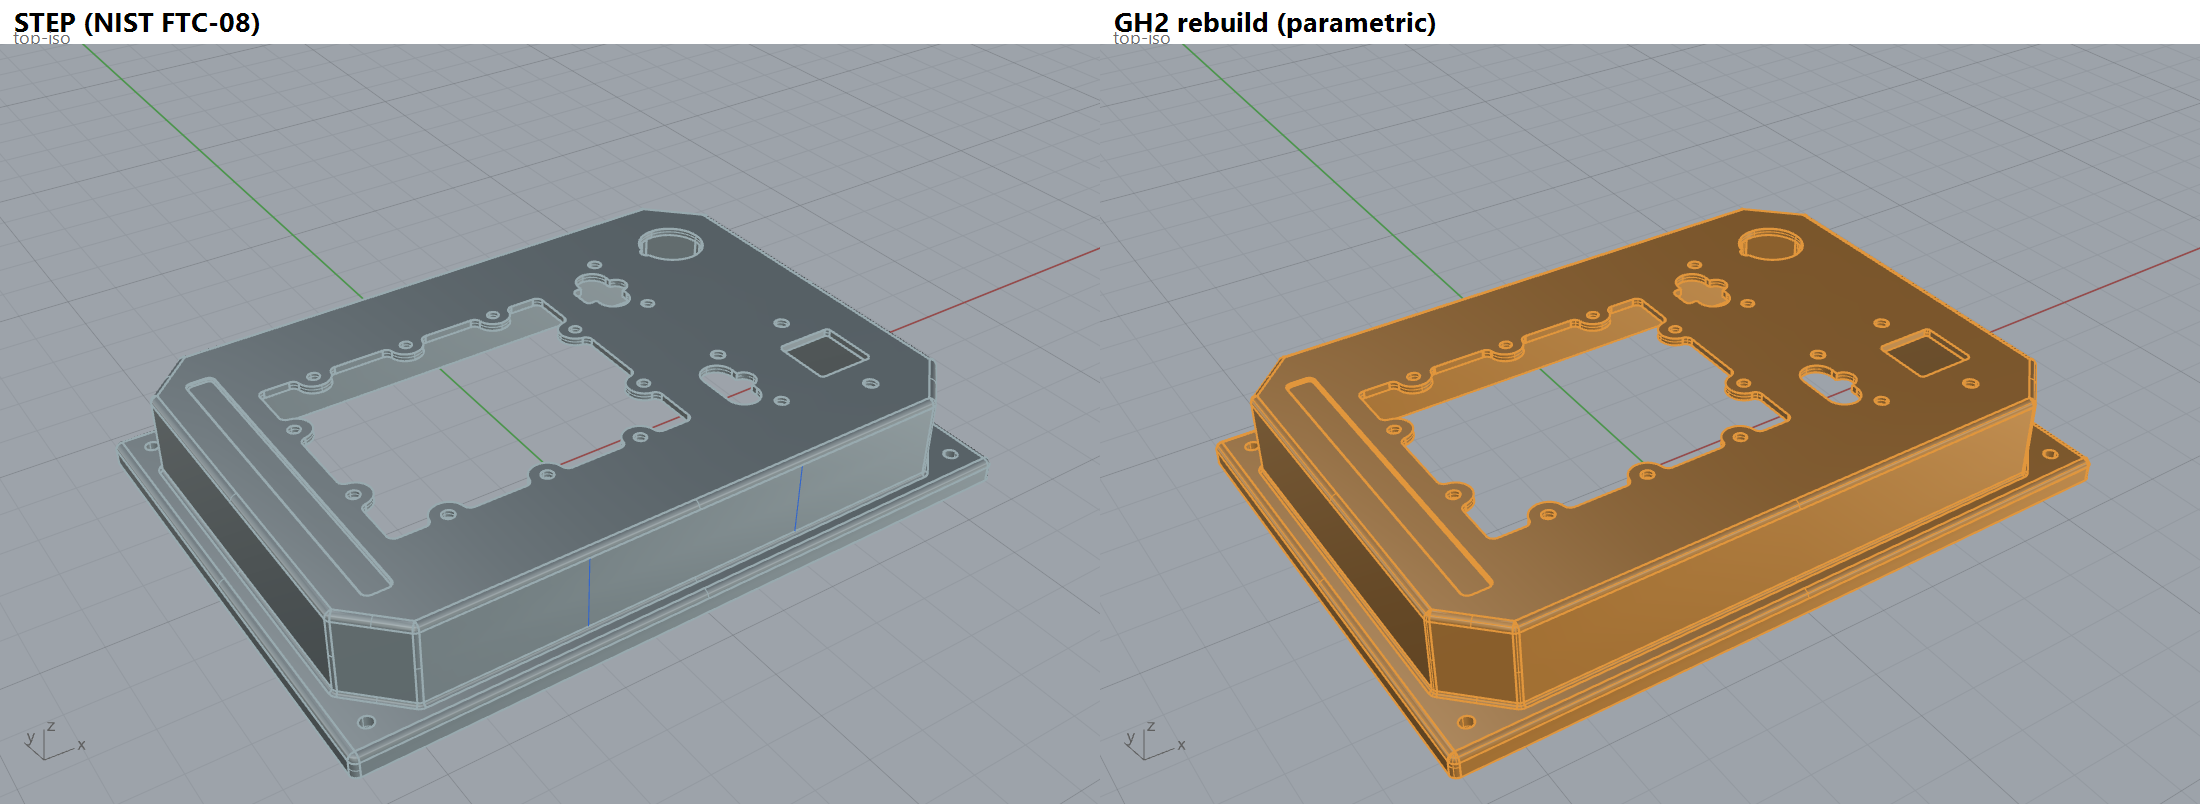
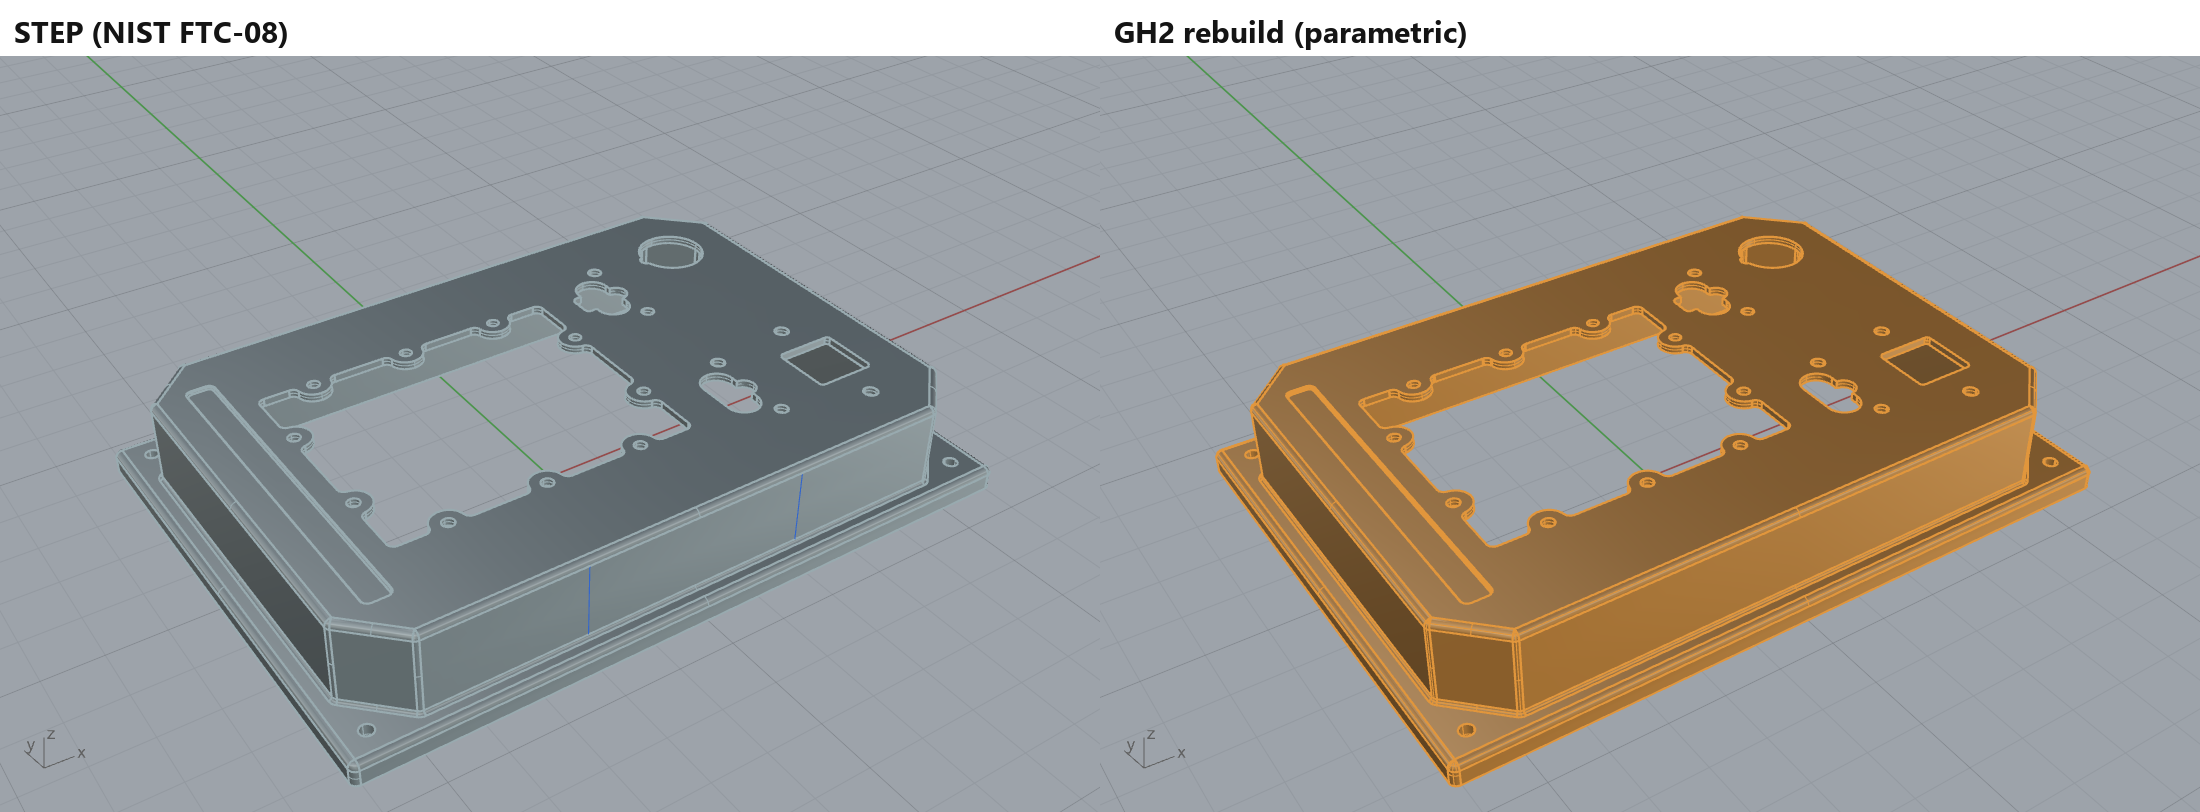
Fix overlapping viewport labels in the STEP vs GH2 still

diff --git a/docs/media/make_stills.py b/docs/media/make_stills.py
@@ -25,7 +25,14 @@ def main(src):
     grid = Image.open(os.path.join(src, "STEP vs GH2 rebuild.png")).convert("RGB")   # 2200x1608, 2x2
     w, h = grid.size
     top = grid.crop((0, 0, w, h // 2))
-    top.save(os.path.join(HERE, "step-vs-gh2.png"), optimize=True)
+    # the source titles overlap Rhino's small "top-iso" viewport labels: cut below both and redraw the titles
+    cut, band = 48, 56
+    still = Image.new("RGB", (w, h // 2 - cut + band), (255, 255, 255))
+    still.paste(top.crop((0, cut, w, h // 2)), (0, band))
+    d = ImageDraw.Draw(still)
+    for x, text in ((14, "STEP (NIST FTC-08)"), (w // 2 + 14, "GH2 rebuild (parametric)")):
+        d.text((x, 10), text, font=font(30, True), fill=(20, 20, 20))
+    still.save(os.path.join(HERE, "step-vs-gh2.png"), optimize=True)
 
     canvas = Image.open(os.path.join(src, "canvas_overview.png")).convert("RGB")      # 1800x2895
     canvas.crop((0, 0, canvas.width, 1300)).save(os.path.join(HERE, "gh2-canvas.png"), optimize=True)
